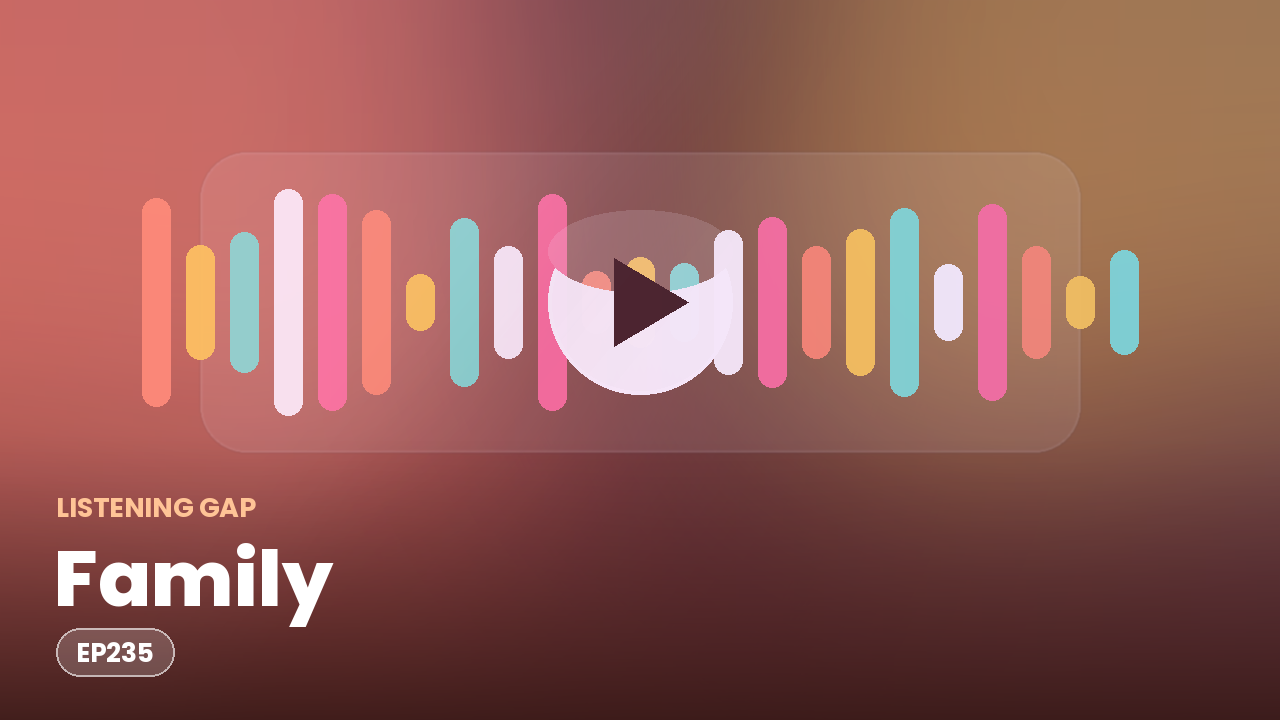
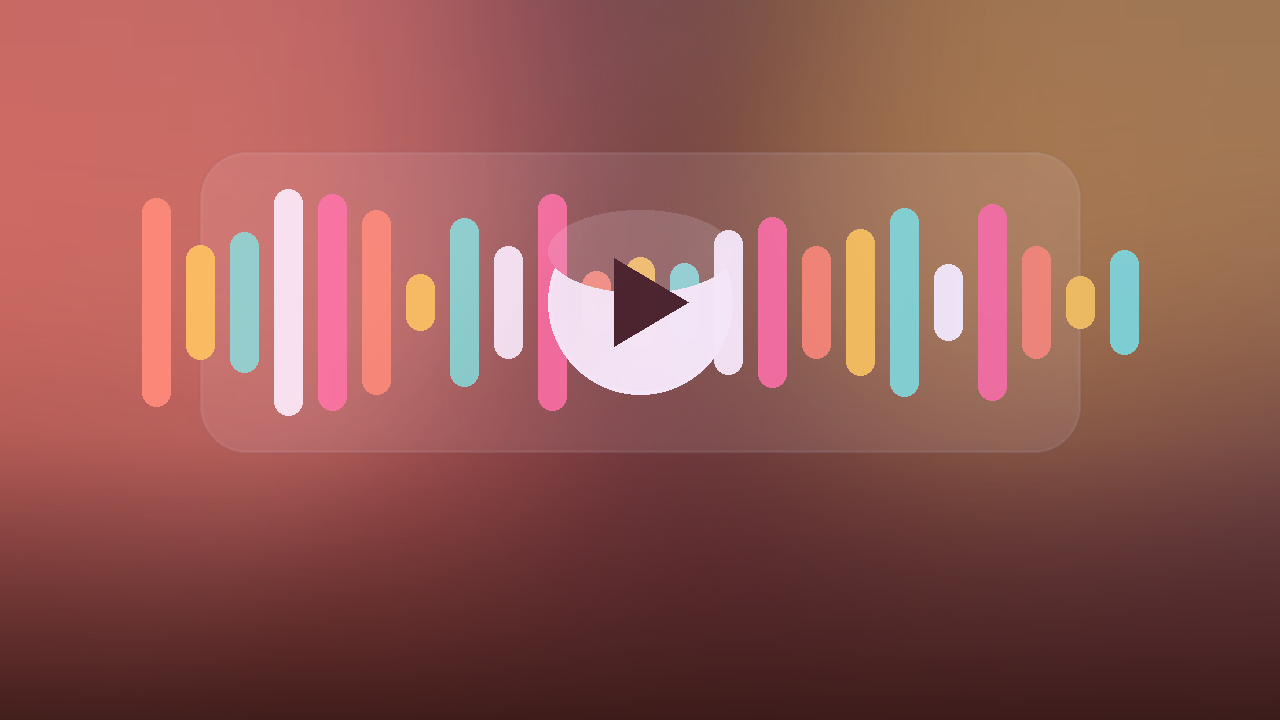
fix(arcade): art-only episode covers (no duplicate title); unify THIS WEEK + Completed into aligned bottom-left cluster

Changed region(s): [[0.0312, 0.6722, 0.2812, 0.9472]]

diff --git a/arcade-type.html b/arcade-type.html
@@ -42,7 +42,8 @@
   .cover img{width:100%;height:100%;object-fit:cover;display:block}
   .cover .ph{position:absolute;inset:0;display:flex;align-items:center;justify-content:center;padding:16px;text-align:center;
     font-family:var(--display);font-weight:700;font-size:20px;color:#fff;background:linear-gradient(120deg,var(--purple),var(--teal))}
-  .now{position:absolute;top:11px;left:11px;font-size:11px;font-weight:700;color:#06121f;background:var(--teal);border-radius:30px;padding:4px 11px;letter-spacing:.04em}
+  .status{position:absolute;left:12px;bottom:12px;display:flex;gap:8px;align-items:center;z-index:2}
+  .now{display:inline-flex;align-items:center;font-size:11px;font-weight:800;letter-spacing:.04em;color:#06121f;background:var(--teal);border-radius:999px;padding:4px 11px}
   .lockbadge{position:absolute;top:10px;right:11px;display:grid;place-items:center;width:30px;height:30px;border-radius:50%;background:rgba(8,6,20,.6);color:#fff;font-size:14px;backdrop-filter:blur(4px)}
   .tile.locked .cover{filter:saturate(.55) brightness(.62)}
   .body{padding:14px 16px;display:flex;align-items:center;justify-content:space-between;gap:10px}
@@ -51,8 +52,8 @@
   .play{flex:0 0 auto;width:38px;height:38px;border-radius:50%;display:grid;place-items:center;color:#fff;background:linear-gradient(135deg,var(--coral),var(--pink))}
   .unlock{flex:0 0 auto;font-size:12.5px;font-weight:700;color:var(--ink);background:var(--glass);border:1px solid var(--line);padding:8px 13px;border-radius:999px;white-space:nowrap}
   .note{color:var(--soft);font-size:14px;background:var(--glass);border:1px solid var(--line);border-radius:16px;padding:16px 18px}
-  .donebadge{position:absolute;bottom:10px;right:11px;display:inline-flex;align-items:center;gap:5px;font-size:12px;font-weight:800;
-    color:#062018;background:var(--teal);border-radius:999px;padding:4px 11px}
+  .donebadge{display:inline-flex;align-items:center;gap:5px;font-size:11px;font-weight:800;letter-spacing:.03em;
+    color:#7fe6da;background:rgba(31,196,182,.20);border:1px solid rgba(31,196,182,.55);border-radius:999px;padding:3px 10px}
 </style>
 <script src="/progress.js"></script>
 </head>
@@ -84,7 +85,7 @@ function tile(type,ep,locked,access){
         <div class="unlock">${label}</div></div></a>`;
   }
   return `<a class="tile" href="/games/${esc(type)}/?ep=${esc(ep.id)}">
-    <div class="cover">${ep.current?'<span class="now">THIS WEEK</span>':''}${cover}${done?'<span class="donebadge">&#10003; Completed</span>':''}</div>
+    <div class="cover">${cover}<div class="status">${ep.current?'<span class="now">THIS WEEK</span>':''}${done?'<span class="donebadge">&#10003; Completed</span>':''}</div></div>
     <div class="body"><div><div class="ep">${esc(ep.ep)}</div><div class="ttl">${esc(ep.title)}</div></div>
       <div class="play">&#9654;</div></div></a>`;
 }
